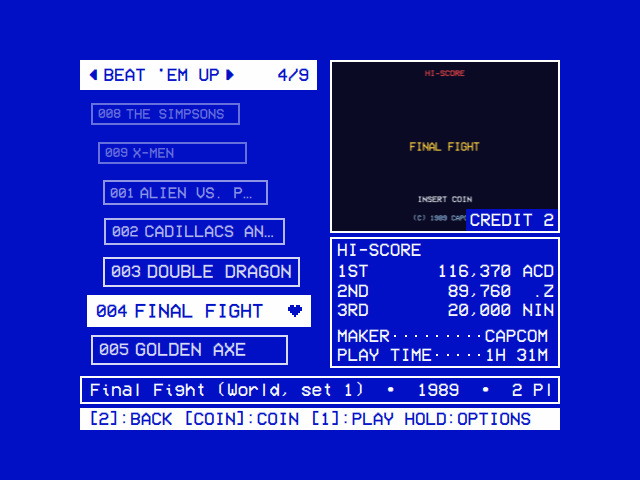
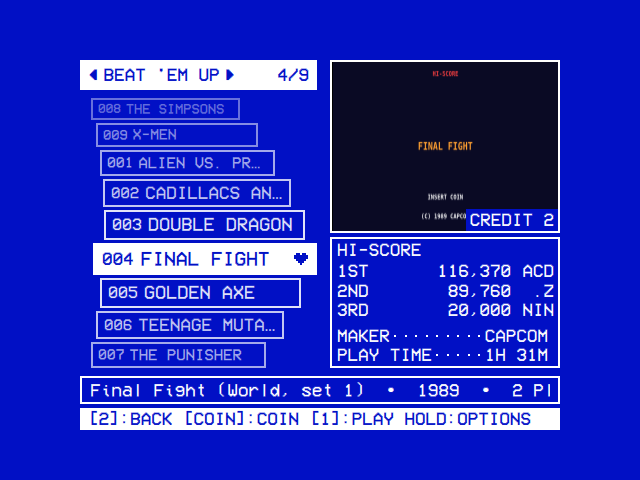
docs: retake the screenshots of the Arcade and High Scores after the menus' rework
Three pictures showed screens that have since changed. Menu Filters now
lists Vertical Games among its lists, and its hint bar on a heading reads
[◄►]/[ENTER]:CHANGE ALL. The 3D Curved list holds nine games on its wheel
rather than seven, with Final Fight a row under its middle. On the RetroArch
Lobby filter every room that can be joined carries ▶, The King of Fighters
among them. The wiki's alt texts for the three pictures now say what they
show.

The other pictures of the Arcade, High Scores and Local Files' Favorites
were brought up again and match the app as it is, so they stay as they
were. The Orb look's two pictures are left as well: they need a newer Qt
Quick 3D than the machine that took these had.

diff --git a/docs/wiki/Arcade.md b/docs/wiki/Arcade.md
@@ -115,7 +115,7 @@ On a pad, COIN is its Back button, so here the pad's B is Back.
 
 <table>
 <tr><th>Straight</th><th>Curved</th><th>3D Curved</th></tr>
-<tr><td><img src="https://raw.githubusercontent.com/mehmetraif/OSD-OS/main/docs/screenshots/arcade-list-straight.png" width="100%" alt="List Style Straight: seven games one under another as wide as the bar, Final Fight selected and out to the bar's left end" /></td><td><img src="https://raw.githubusercontent.com/mehmetraif/OSD-OS/main/docs/screenshots/arcade-screen.png" width="100%" alt="List Style Curved: seven games on an arc, the middle of the page furthest right, Final Fight selected" /></td><td><img src="https://raw.githubusercontent.com/mehmetraif/OSD-OS/main/docs/screenshots/arcade-list-3d-curved.png" width="100%" alt="List Style 3D Curved: Final Fight two rows under the wheel's middle, furthest out, the games over and under it smaller and fainter the further they are from it; the bar reads 4/9" /></td></tr>
+<tr><td><img src="https://raw.githubusercontent.com/mehmetraif/OSD-OS/main/docs/screenshots/arcade-list-straight.png" width="100%" alt="List Style Straight: seven games one under another as wide as the bar, Final Fight selected and out to the bar's left end" /></td><td><img src="https://raw.githubusercontent.com/mehmetraif/OSD-OS/main/docs/screenshots/arcade-screen.png" width="100%" alt="List Style Curved: seven games on an arc, the middle of the page furthest right, Final Fight selected" /></td><td><img src="https://raw.githubusercontent.com/mehmetraif/OSD-OS/main/docs/screenshots/arcade-list-3d-curved.png" width="100%" alt="List Style 3D Curved: nine games on the wheel, Final Fight a row under its middle, furthest out, the games over and under it smaller and fainter the further they are from it; the bar reads 4/9" /></td></tr>
 </table>
 
 **Settings → Arcade → List Style** lays the list out:
@@ -205,7 +205,7 @@ Search is the last filter. While it is shown, the on-screen keyboard stands in t
 
 ### Menu Filters
 
-<img src="https://raw.githubusercontent.com/mehmetraif/OSD-OS/main/docs/screenshots/arcade-menu-filters.png" width="100%" alt="Settings / Arcade / Menu Filters: the LISTS heading over Favorites, Recently Played, RetroAchievements, Playable Online and Not Recognized, ON; the GENRES heading selected, over Beat 'em Up, ON; the help line: Turns all of the choices under it on or off" />
+<img src="https://raw.githubusercontent.com/mehmetraif/OSD-OS/main/docs/screenshots/arcade-menu-filters.png" width="100%" alt="Settings / Arcade / Menu Filters: the LISTS heading over Favorites, Recently Played, RetroAchievements, Playable Online, Vertical Games and Not Recognized, ON; the GENRES heading selected; the help line: Turns all of the choices under it on or off; the hint bar: [◄►]/[ENTER]:CHANGE ALL" />
 
 **Settings → Arcade → Menu Filters** chooses the filters ◄ ► goes round. Its page lists them under five headings: **Lists**, **Genres**, **Players**, **Years** and **Publishers**.
 

diff --git a/docs/wiki/Online-and-LAN-Play.md b/docs/wiki/Online-and-LAN-Play.md
@@ -4,7 +4,7 @@ Every OSD/OS machine plays FinalBurn Neo's arcade games with the others: over th
 
 <table>
 <tr><th width="50%">LAN Games</th><th width="50%">RetroArch Lobby</th></tr>
-<tr><td><img src="https://raw.githubusercontent.com/mehmetraif/OSD-OS/main/docs/screenshots/arcade-screen-lan.png" width="100%" alt="The Arcade screen's LAN Games filter: Final Fight and Cadillacs and Dinosaurs hosted on the network; in the box on the right, Final Fight's room: its file, hosted by Cabinet at 192.168.50.20, OSD/OS's LAN core, its version and RetroArch marked as yours, Linux 64-bit, no password, over the LAN" /></td><td><img src="https://raw.githubusercontent.com/mehmetraif/OSD-OS/main/docs/screenshots/arcade-screen-lobby.png" width="100%" alt="The Arcade screen's RetroArch Lobby filter: DoDonPachi with a lock, Garou with ▶, Metal Slug, The King of Fighters, Sonic the Hedgehog 2 and Super Mario World; in the box on the right, Garou's room: its ROM and CRC, FinalBurn Neo and its version marked as yours, hosted by nightowl in Spain, straight to the host, one player, 4 minutes ago, can be joined" /></td></tr>
+<tr><td><img src="https://raw.githubusercontent.com/mehmetraif/OSD-OS/main/docs/screenshots/arcade-screen-lan.png" width="100%" alt="The Arcade screen's LAN Games filter: Final Fight and Cadillacs and Dinosaurs hosted on the network; in the box on the right, Final Fight's room: its file, hosted by Cabinet at 192.168.50.20, OSD/OS's LAN core, its version and RetroArch marked as yours, Linux 64-bit, no password, over the LAN" /></td><td><img src="https://raw.githubusercontent.com/mehmetraif/OSD-OS/main/docs/screenshots/arcade-screen-lobby.png" width="100%" alt="The Arcade screen's RetroArch Lobby filter: DoDonPachi with a lock, Garou, Metal Slug and The King of Fighters with ▶, Sonic the Hedgehog and Super Mario World; in the box on the right, Garou's room: its ROM and CRC, FinalBurn Neo and its version marked as yours, hosted by nightowl in Spain, straight to the host, one player, 4 minutes ago, can be joined" /></td></tr>
 <tr><td>The games hosted on your network that you have. Select joins one.</td><td>Every game hosted in RetroArch's lobby: ▶ on those you can join, a lock on those with a password.</td></tr>
 </table>
 
